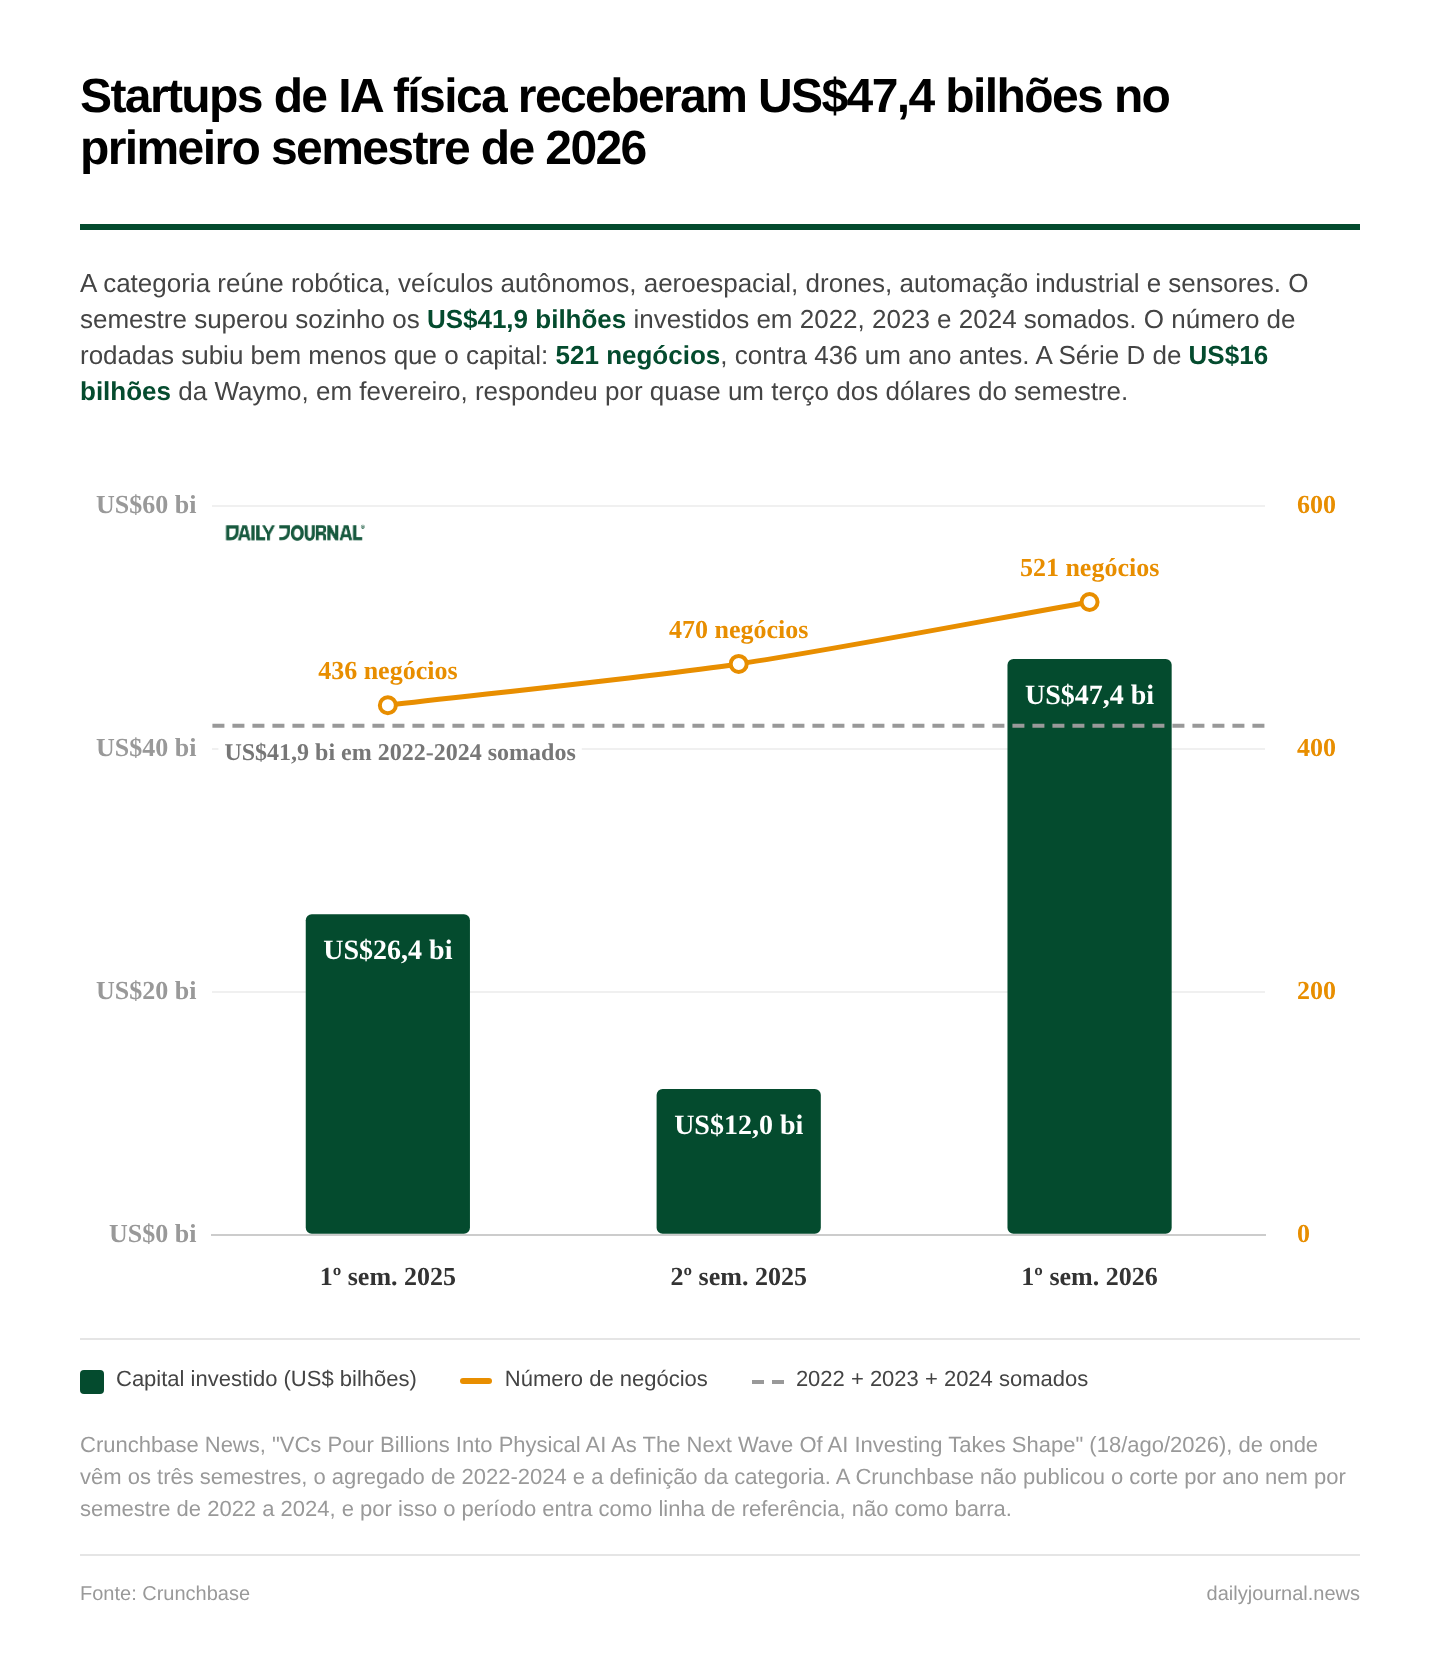
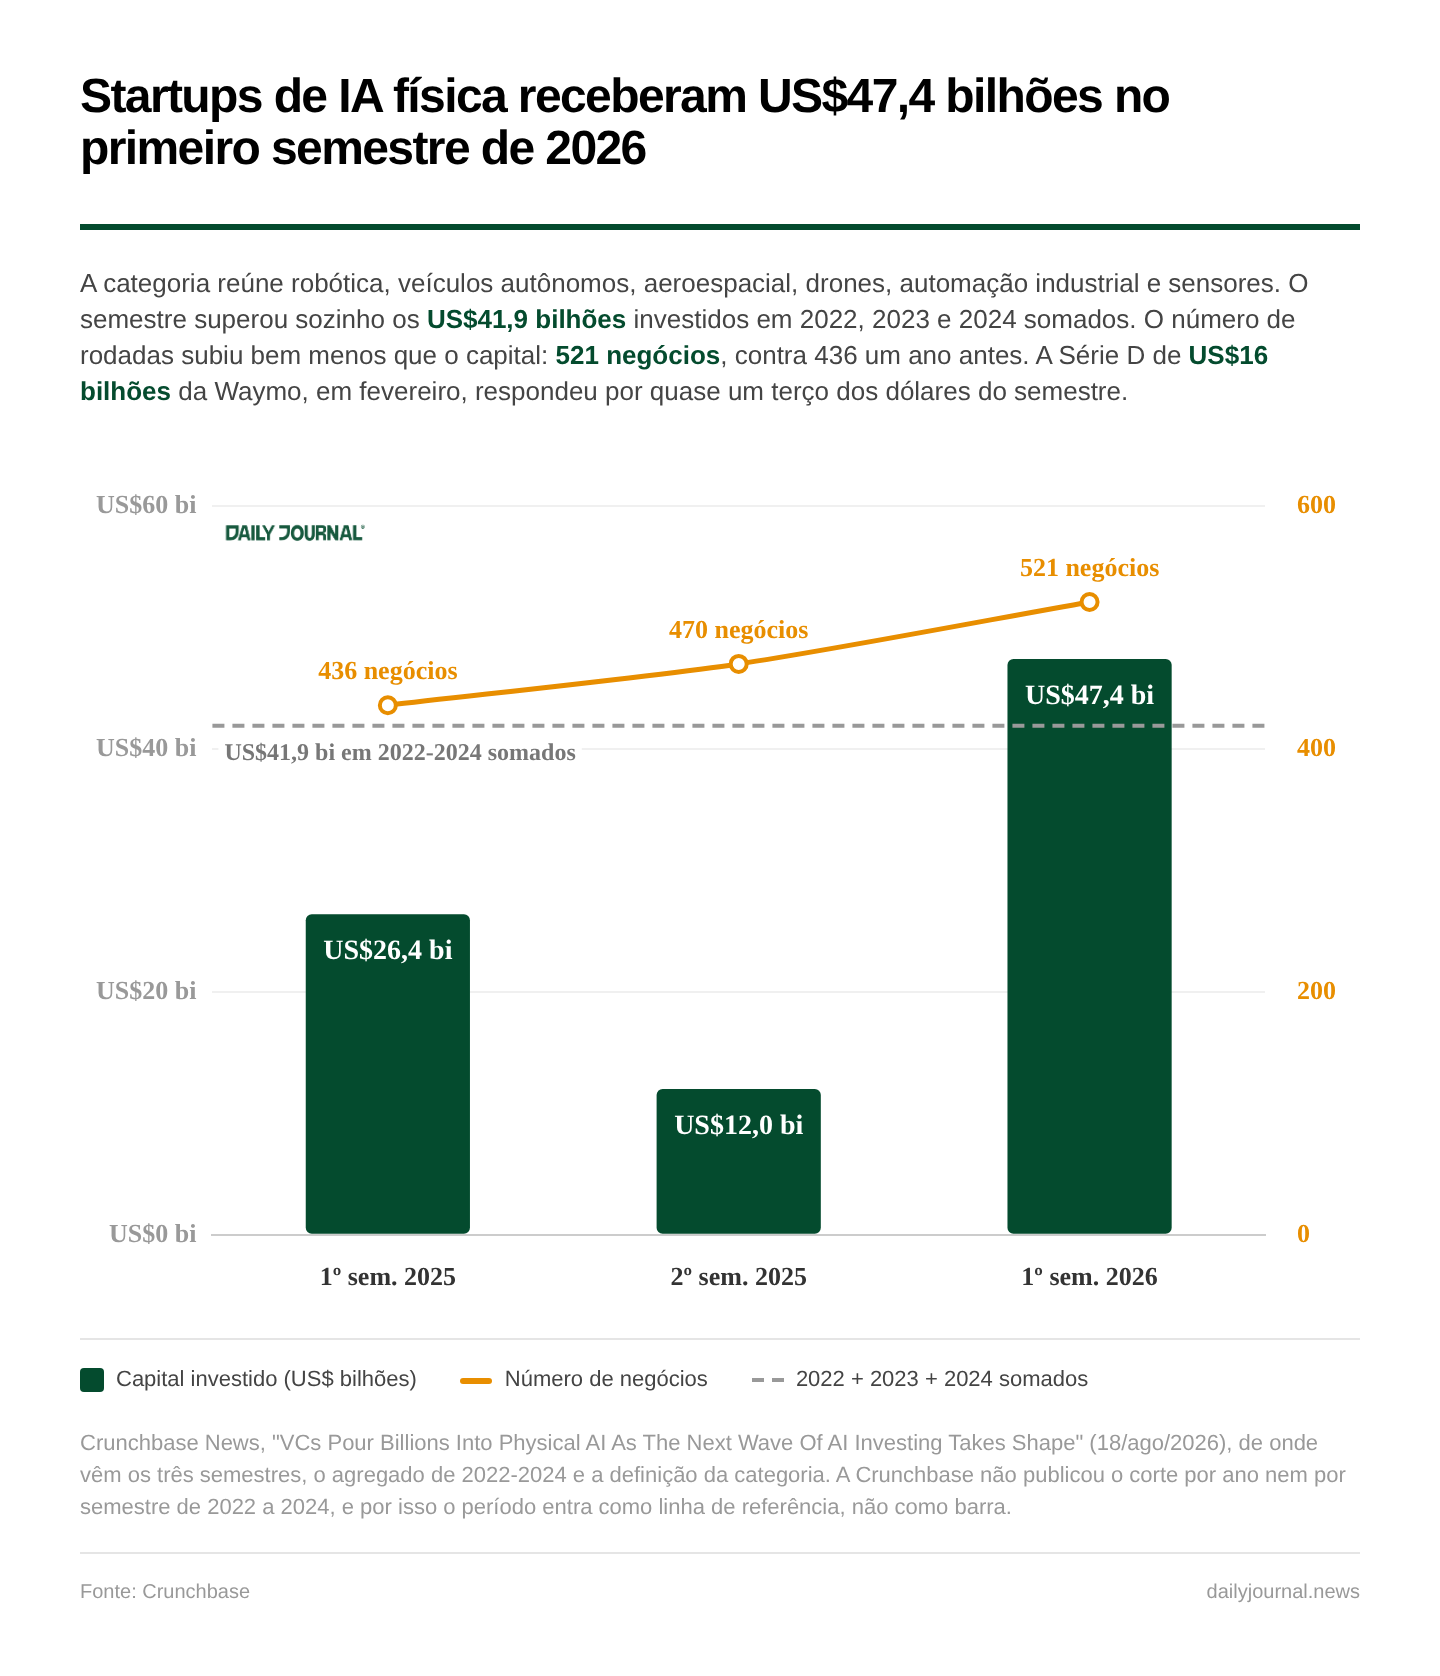
posts: centraliza o swatch da legenda em todos os charts
Os swatches usavam `vertical-align: middle`, que alinha pelo x-height do
texto e nao pelo centro optico — o quadradinho colorido ficava visivelmente
baixo em relacao ao rotulo, em todo post.

Troca por `.legend > span { display: inline-flex; align-items: center; }`,
que e o padrao que chart-anthropic-run-rate.html e
chart-humanoid-market-share-2025.html ja usavam. 15 charts alinhados ao
padrao; os dois corretos ficaram intactos.

Como o Step 4 do skill manda COPIAR um chart existente como scaffolding,
a regra tambem entrou na spec (CLAUDE.md "Posts" > Brand) e nas regras
fixas do skill, pra sair certo ja na proxima vez.

Os PNGs dos posts antigos nao foram regerados: ja estao publicados e o
HTML corrigido e o que sera copiado adiante. So o chart de hoje foi
re-renderizado.

Claude-Session: https://claude.ai/code/session_019bXifXizVvsyNKiuFhrhgu

Changed region(s): [[0.0625, 0.8377, 0.875, 0.9618], [0.9062, 0.9308, 0.9375, 0.9618], [0.8438, 0.9308, 0.875, 0.9618]]

diff --git a/posts/chart-data-center-electricity.html b/posts/chart-data-center-electricity.html
@@ -31,13 +31,15 @@
     display: flex; gap: 22px; margin-top: 16px; padding-top: 14px;
     border-top: 1px solid #E5E5E5; font-size: 11px; color: #444;
   }
+  .legend > span {
+    display: inline-flex;
+    align-items: center;
+  }
   .legend .swatch {
-    display: inline-block; width: 12px; height: 12px; margin-right: 6px;
-    vertical-align: middle; border-radius: 2px;
+    display: inline-block; width: 12px; height: 12px; margin-right: 6px; border-radius: 2px;
   }
   .legend .line-swatch {
-    display: inline-block; width: 16px; height: 3px; margin-right: 6px;
-    vertical-align: middle; border-radius: 2px;
+    display: inline-block; width: 16px; height: 3px; margin-right: 6px; border-radius: 2px;
   }
   .caption {
     font-size: 11px; line-height: 16px; color: #999;

diff --git a/posts/chart-physical-ai-vc-funding.html b/posts/chart-physical-ai-vc-funding.html
@@ -62,12 +62,15 @@
     font-size: 11px;
     color: #444;
   }
+  .legend > span {
+    display: inline-flex;
+    align-items: center;
+  }
   .legend .swatch {
     display: inline-block;
     width: 12px;
     height: 12px;
     margin-right: 6px;
-    vertical-align: middle;
     border-radius: 2px;
   }
   .legend .line-swatch {
@@ -75,7 +78,6 @@
     width: 16px;
     height: 3px;
     margin-right: 6px;
-    vertical-align: middle;
     border-radius: 2px;
   }
   .legend .dash-swatch {
@@ -83,7 +85,6 @@
     width: 16px;
     height: 0;
     margin-right: 6px;
-    vertical-align: middle;
     border-top: 2px dashed #999;
   }
   .caption {

diff --git a/posts/chart-asml-euv-machines.html b/posts/chart-asml-euv-machines.html
@@ -58,12 +58,15 @@
     font-size: 11px;
     color: #444;
   }
+  .legend > span {
+    display: inline-flex;
+    align-items: center;
+  }
   .legend .swatch {
     display: inline-block;
     width: 12px;
     height: 12px;
     margin-right: 6px;
-    vertical-align: middle;
     border-radius: 2px;
   }
   .legend .line-swatch {
@@ -71,7 +74,6 @@
     width: 16px;
     height: 3px;
     margin-right: 6px;
-    vertical-align: middle;
     border-radius: 2px;
   }
   .caption {

diff --git a/posts/chart-hbm-market-share-by-supplier.html b/posts/chart-hbm-market-share-by-supplier.html
@@ -65,12 +65,15 @@
     font-size: 11px;
     color: #444;
   }
+  .legend > span {
+    display: inline-flex;
+    align-items: center;
+  }
   .legend .line-swatch {
     display: inline-block;
     width: 16px;
     height: 3px;
     margin-right: 6px;
-    vertical-align: middle;
     border-radius: 2px;
   }
   .caption {

diff --git a/posts/chart-asml-china.html b/posts/chart-asml-china.html
@@ -62,12 +62,15 @@
     font-size: 11px;
     color: #444;
   }
+  .legend > span {
+    display: inline-flex;
+    align-items: center;
+  }
   .legend .swatch {
     display: inline-block;
     width: 12px;
     height: 12px;
     margin-right: 6px;
-    vertical-align: middle;
     border-radius: 2px;
   }
   .caption {

diff --git a/posts/chart-defense-tech-vc-funding.html b/posts/chart-defense-tech-vc-funding.html
@@ -58,12 +58,15 @@
     font-size: 11px;
     color: #444;
   }
+  .legend > span {
+    display: inline-flex;
+    align-items: center;
+  }
   .legend .swatch {
     display: inline-block;
     width: 12px;
     height: 12px;
     margin-right: 6px;
-    vertical-align: middle;
     border-radius: 2px;
   }
   .caption {

diff --git a/posts/chart-genai-adoption-by-country.html b/posts/chart-genai-adoption-by-country.html
@@ -51,12 +51,15 @@
     font-size: 11px;
     color: #444;
   }
+  .legend > span {
+    display: inline-flex;
+    align-items: center;
+  }
   .legend .swatch {
     display: inline-block;
     width: 12px;
     height: 12px;
     margin-right: 6px;
-    vertical-align: middle;
     border-radius: 2px;
   }
   .caption {

diff --git a/posts/chart-korea-chip-exports.html b/posts/chart-korea-chip-exports.html
@@ -62,12 +62,15 @@
     font-size: 11px;
     color: #444;
   }
+  .legend > span {
+    display: inline-flex;
+    align-items: center;
+  }
   .legend .swatch {
     display: inline-block;
     width: 12px;
     height: 12px;
     margin-right: 6px;
-    vertical-align: middle;
     border-radius: 2px;
   }
   .caption {

diff --git a/posts/chart-top500-fastest-supercomputer.html b/posts/chart-top500-fastest-supercomputer.html
@@ -64,12 +64,15 @@
     font-size: 11px;
     color: #444;
   }
+  .legend > span {
+    display: inline-flex;
+    align-items: center;
+  }
   .legend .swatch {
     display: inline-block;
     width: 12px;
     height: 12px;
     margin-right: 6px;
-    vertical-align: middle;
     border-radius: 50%;
   }
   .caption {

diff --git a/posts/chart-xiaomi-shipments.html b/posts/chart-xiaomi-shipments.html
@@ -62,12 +62,15 @@
     font-size: 11px;
     color: #444;
   }
+  .legend > span {
+    display: inline-flex;
+    align-items: center;
+  }
   .legend .swatch {
     display: inline-block;
     width: 12px;
     height: 12px;
     margin-right: 6px;
-    vertical-align: middle;
     border-radius: 2px;
   }
   .caption {

diff --git a/posts/chart-adocao-ia-por-setor.html b/posts/chart-adocao-ia-por-setor.html
@@ -57,12 +57,15 @@
     font-size: 11px;
     color: #444;
   }
+  .legend > span {
+    display: inline-flex;
+    align-items: center;
+  }
   .legend .swatch {
     display: inline-block;
     width: 12px;
     height: 12px;
     margin-right: 6px;
-    vertical-align: middle;
     border-radius: 2px;
   }
   .footer {

diff --git a/posts/chart-fabs.html b/posts/chart-fabs.html
@@ -67,12 +67,15 @@
     font-size: 11px;
     color: #444;
   }
+  .legend > span {
+    display: inline-flex;
+    align-items: center;
+  }
   .legend .swatch {
     display: inline-block;
     width: 12px;
     height: 12px;
     margin-right: 6px;
-    vertical-align: middle;
     border-radius: 2px;
   }
   .footer {
